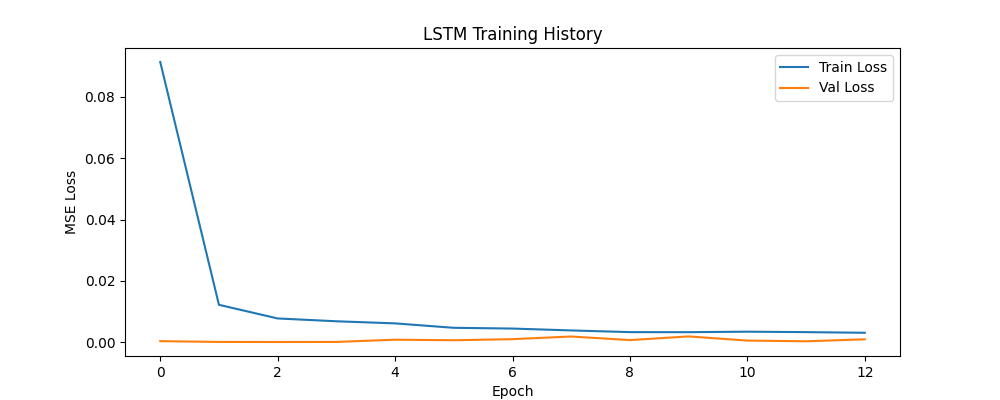
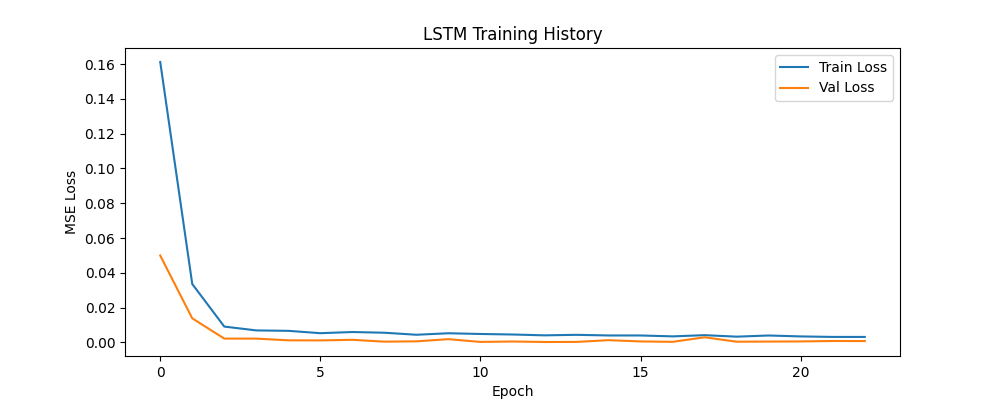
feat: add soc_true field and EKF vs LSTM error comparison
-Add soc_true (avg cell SOC) to BmsData.est struct
-Calculate and log soc_true in BMS_ReadSensor after cell loop
-Add soc_true column to CSV output
-Add compare_ekf_lstm.py for EKF vs LSTM error analysis
-Results: EKF RMSE = 0.99%, LSTM RMSE = 0.21%

diff --git a/lstm_soc/compare_ekf_lstm.py b/lstm_soc/compare_ekf_lstm.py
@@ -1,0 +1,41 @@
+import numpy as np
+import pandas as pd
+import matplotlib.pyplot as plt
+import tensorflow as tf
+import pickle
+
+#===EKF误差===
+df = pd.read_csv('bms_log.csv')
+mae_ekf = np.mean(np.abs(df['soc_ekf'] - df['soc_true']))
+rmse_ekf = np.sqrt(np.mean((df['soc_ekf'] - df['soc_true'])**2))
+
+#===LSTM误差===
+model = tf.keras.models.load_model('best_lstm_model.keras')
+with open('scaler_Y.pkl','rb') as f:
+    scaler_Y = pickle.load(f)
+X_test = np.load('X_test.npy')
+Y_test = np.load('Y_test.npy')
+Y_pred_scaled = model.predict(X_test)
+Y_pred = scaler_Y.inverse_transform(Y_pred_scaled)
+Y_true = scaler_Y.inverse_transform(Y_test)
+mae_lstm = np.mean(np.abs(Y_pred - Y_true))
+rmse_lstm = np.sqrt(np.mean((Y_pred - Y_true)**2))
+
+
+#===打印对比===
+print(f"EKF  MAE={mae_ekf:.4f}%  RMSE={rmse_ekf:.4f}%")
+print(f"LSTM  MAE={mae_lstm:.4f}%  RMSE={rmse_lstm:.4f}%")
+
+#===柱状图对比===
+labels = ['MAE','RMSE']
+ekf_vals = [mae_ekf,rmse_ekf]
+lstm_vals = [mae_lstm,rmse_lstm]
+x = np.arange(len(labels))
+plt.bar(x - 0.2, ekf_vals, 0.4, label='EKF')
+plt.bar(x + 0.2, lstm_vals, 0.4, label='LSTM')
+plt.xticks(x,labels)
+plt.ylabel('Error (%)')
+plt.title('EKF vs LSTM SOC Estimation Error')
+plt.legend()
+plt.savefig('ekf_vs_lstm.png',dpi=150)
+plt.show()

diff --git a/src/logger.c b/src/logger.c
@@ -11,13 +11,13 @@ void CSV_Init(void)
         printf("Failed to open CSV file!\n");
         return;
     }
-    fprintf(fp,"time,soc,voltage,current,temp,state,fault\n");
+    fprintf(fp,"time,soc_true,soc_ekf,voltage,current,temp,state,fault\n");
 }
 
-void CSV_Write(int time, float soc, float voltage, float current, float temp, const char* state, const char* fault)
+void CSV_Write(int time, float soc_true, float soc_ekf, float voltage, float current, float temp, const char* state, const char* fault)
 {
     if(fp == NULL) return;
-    fprintf(fp,"%d,%.6f,%.2f,%.2f,%.2f,%s,%s\n", time, soc, voltage, current, temp, state, fault);
+    fprintf(fp,"%d,%.6f,%.6f,%.2f,%.2f,%.2f,%s,%s\n", time, soc_true, soc_ekf, voltage, current, temp, state, fault);
     fflush(fp); 
 }
 

diff --git a/src/battery.c b/src/battery.c
@@ -40,6 +40,11 @@ void BMS_ReadSensor(BmsData* bms)
         float ocv = OCV_LookupSOC_Inverse(bms->est.soc_cell[i]);
         bms->raw.cellvoltage[i] = RcModel_Update(&bms->rc[i],cell_current,ocv);
     }
+    float soc_true = 0.0f;
+    for(int i = 0; i < CELL_NUM; i++)
+        soc_true += bms->est.soc_cell[i];
+    bms->est.soc_true = soc_true / CELL_NUM;
+
 }
 
 float BMS_GetPackVoltage(BmsData* bms)

diff --git a/inc/bms.h b/inc/bms.h
@@ -38,8 +38,10 @@ typedef struct
 } RcModelState;
 
 typedef struct 
-{
+{   
     float soc;
+    float soc_ekf;
+    float soc_true;
     float soc_cell[CELL_NUM];
 } BatteryEstimation;
 

diff --git a/lstm_soc/preprocess.py b/lstm_soc/preprocess.py
@@ -6,10 +6,10 @@ import pickle
 df = pd.read_csv('bms_log.csv')
 
 features = ['voltage','current','temp']
-target = 'soc'
+target = 'soc_true'
 
 df = df.dropna()
-df = df[df['soc'].between(0,100)]
+df = df[df['soc_true'].between(0,100)]
 df = df[df['voltage'].between(15.0,25.2)]
 print("过滤后行数:",len(df))
 

diff --git a/src/soc.c b/src/soc.c
@@ -19,6 +19,6 @@ void BMS_UpdateSOC(BmsData* bms)
     float avg_v_compensated = avg_cell_voltage + bms->raw.current * R0;
     float z = OCV_LookupSOC(avg_v_compensated);
 
-    bms->est.soc = EKF_Update(&ekf,bms->raw.current,z);
-    printf("[EKF] K=%.3f | Pred=%.4f%% | OCV=%.4f%% | Fused=%.4f%%\n",ekf.P/(ekf.P + ekf.R),ekf.x,z,bms->est.soc);
+    bms->est.soc_ekf = EKF_Update(&ekf,bms->raw.current,z);
+    printf("[EKF] K=%.3f | Pred=%.4f%% | OCV=%.4f%% | Fused=%.4f%%\n",ekf.P/(ekf.P + ekf.R),ekf.x,z,bms->est.soc_ekf);
 }

diff --git a/main.c b/main.c
@@ -41,7 +41,8 @@ int main()
         CSV_Write
         (
             t,
-            bms.est.soc,
+            bms.est.soc_true,
+            bms.est.soc_ekf,
             BMS_GetPackVoltage(&bms),
             bms.raw.current,
             bms.raw.temperature,

diff --git a/inc/logger.h b/inc/logger.h
@@ -2,7 +2,7 @@
 #define LOGGER_H
 
 void CSV_Init(void);
-void CSV_Write(int time, float soc, float voltage, float current, float temp, const char* state, const char* fault);
+void CSV_Write(int time, float soc_true, float soc_ekf, float voltage, float current, float temp, const char* state, const char* fault);
 void CSV_Close(void);
 
 #endif

diff --git a/lstm_soc/explore_data.py b/lstm_soc/explore_data.py
@@ -9,7 +9,7 @@ print(f"总行数:{len(df)}")
 
 print("缺失值:\n",df.isnull().sum())
 fig,axes = plt.subplots(4, 1, figsize=(12, 6))
-df['soc'].plot(ax=axes[0],title='SOC')
+df['soc_true'].plot(ax=axes[0],title='SOC')
 df['voltage'].plot(ax=axes[1],title='Voltage (V)')
 df['current'].plot(ax=axes[2],title='Current (A)')
 df['temp'].plot(ax=axes[3],title='Temperature (℃)')

diff --git a/src/control.c b/src/control.c
@@ -41,5 +41,5 @@ void BMS_Report(BmsData* bms)
            maxV - minV,
            bms->raw.current,
            bms->raw.temperature,
-           bms->est.soc);
+           bms->est.soc_ekf);
 }